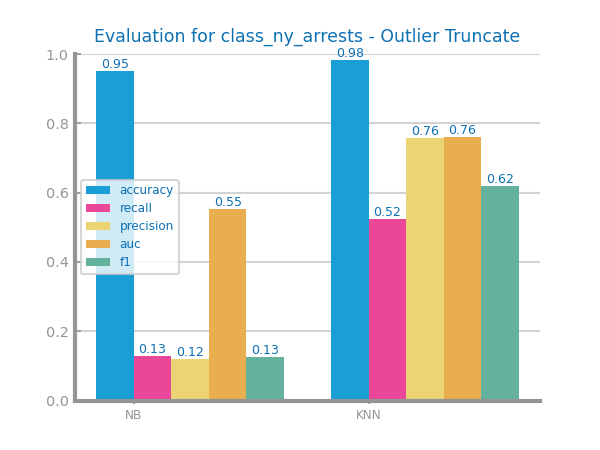
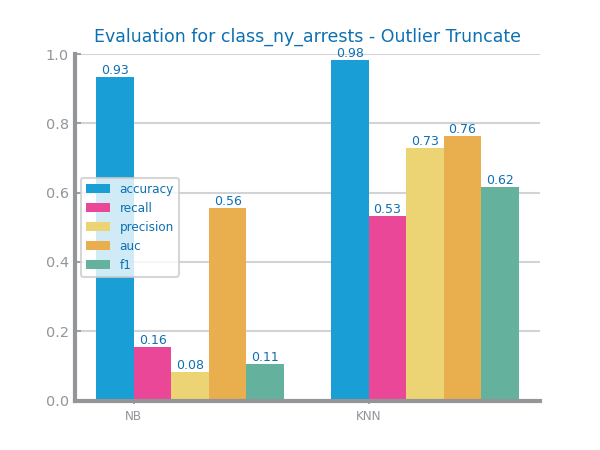
re-run data processing phase + update (only) best approaches for MV and outliers

diff --git a/main.py b/main.py
@@ -22,9 +22,9 @@ print(data_loader1.data.head())
 print(data_loader2.data.head())
 
 # Sample the data of NY Arrests
-print(f"\nSampling 100000 records from the NY Arrests dataset...")
+# print(f"\nSampling 100000 records from the NY Arrests dataset...")
 # data_loader1.data = data_loader1.data.sample(n=100000)
-print(f"Dataset successfully sampled to 100000 records.")
+# print(f"Dataset successfully sampled to 100000 records.")
 
 # %% 1- Data Profiling
 
@@ -97,110 +97,142 @@ data_processing2 = DataProcessing(data_loader2)
 
 # Handle Missing Values
 # techniques1 = data_processing1.handle_missing_values()
-# print(f"\nForm the plots we conclude that the best approach for the Missing Values of the {data_loader1.file_tag} dataset is Missing Value Removal\n")
+# print(f"\nFrom the plots we conclude that the best approach for the Missing Values of the {data_loader1.file_tag} dataset is Missing Value Removal\n")
 # data_processing1.apply_best_missing_value_approach('Remove MV', techniques1)
 
-# # techniques2 = data_processing2.handle_missing_values()
+# techniques2 = data_processing2.handle_missing_values()
 # print(f"\nThe {data_loader2.file_tag} dataset doesnt have missing values\n")
 
 # Save the data
 # data_loader1.data.to_csv("data/class_ny_arrests_MV.csv", index=False)
 # data_loader2.data.to_csv("data/class_financial_distress_MV.csv", index=False)
-data_loader1.data = pd.read_csv("data/class_ny_arrests_MV.csv")
-data_loader2.data = pd.read_csv("data/class_financial_distress_MV.csv")
+
+# Load the data
+# data_loader1.data = pd.read_csv("data/class_ny_arrests_MV.csv")
+# data_loader2.data = pd.read_csv("data/class_financial_distress_MV.csv")
 
 # Data Splitting
 # X1 = data_loader1.data.drop(columns=[data_loader1.target])
 # y1 = data_loader1.data[data_loader1.target]
 # X1_train, X1_test, y1_train, y1_test = train_test_split(X1, y1, test_size=0.3)
 # data_processing1.X_train, data_processing1.y_train, data_processing1.X_test, data_processing1.y_test = X1_train, y1_train, X1_test, y1_test
-#
+
 # X2 = data_loader2.data.drop(columns=[data_loader2.target])
 # y2 = data_loader2.data[data_loader2.target]
 # X2_train, X2_test, y2_train, y2_test = train_test_split(X2, y2, test_size=0.3)
 # data_processing2.X_train, data_processing2.y_train, data_processing2.X_test, data_processing2.y_test = X2_train, y2_train, X2_test, y2_test
 
+# Save the initial split data
+# X1_train.to_csv("data/class_ny_arrests_Xtrain_initial.csv", index=False)
+# X1_test.to_csv("data/class_ny_arrests_Xtest_initial.csv", index=False)
+# y1_train.to_csv("data/class_ny_arrests_ytrain_initial.csv", index=False)
+# y1_test.to_csv("data/class_ny_arrests_ytest_initial.csv", index=False)
+
+# X2_train.to_csv("data/class_financial_distress_Xtrain_initial.csv", index=False)
+# X2_test.to_csv("data/class_financial_distress_Xtest_initial.csv", index=False)
+# y2_train.to_csv("data/class_financial_distress_ytrain_initial.csv", index=False)
+# y2_test.to_csv("data/class_financial_distress_ytest_initial.csv", index=False)
+
+# Load the initial split data
+X1_train = pd.read_csv("data/class_ny_arrests_Xtrain_initial.csv")
+X1_test = pd.read_csv("data/class_ny_arrests_Xtest_initial.csv")
+y1_train = pd.read_csv("data/class_ny_arrests_ytrain_initial.csv")
+y1_test = pd.read_csv("data/class_ny_arrests_ytest_initial.csv")
+data_processing1.X_train = X1_train
+data_processing1.X_test = X1_test
+data_processing1.y_train = y1_train
+data_processing1.y_test = y1_test
+
+X2_train = pd.read_csv("data/class_financial_distress_Xtrain_initial.csv")
+X2_test = pd.read_csv("data/class_financial_distress_Xtest_initial.csv")
+y2_train = pd.read_csv("data/class_financial_distress_ytrain_initial.csv")
+y2_test = pd.read_csv("data/class_financial_distress_ytest_initial.csv")
+data_processing2.X_train = X2_train
+data_processing2.X_test = X2_test
+data_processing2.y_train = y2_train
+data_processing2.y_test = y2_test
+
 # Handle Outliers
-# techniques1, df_train_dropped1, df_train_replaced1, df_train_truncated1 = data_processing1.handle_outliers()
-# print(f"\nForm the plots we conclude that the best approach for the Outliers of the {data_loader1.file_tag} dataset is to truncate them\n")
-# data_processing1.apply_best_outliers_approach('Truncate', techniques1,
-#                                               df_train_truncated1.drop(columns=[data_loader1.target]),
-#                                               df_train_truncated1[data_loader1.target])
-#
-# techniques2, df_train_dropped2, df_train_replaced2, df_train_truncated2 = data_processing2.handle_outliers()
-# print(f"\nForm the plots we conclude that the best approach for the Outliers of the {data_loader2.file_tag} dataset is to truncate them\n")
-# data_processing2.apply_best_outliers_approach('Truncate', techniques2,
-#                                               df_train_truncated2.drop(columns=[data_loader2.target]),
-#                                               df_train_truncated2[data_loader2.target])
+techniques1, df_train_dropped1, df_train_replaced1, df_train_truncated1 = data_processing1.handle_outliers()
+print(f"\nFrom the plots we conclude that the best approach for the Outliers of the {data_loader1.file_tag} dataset is to truncate them\n")
+data_processing1.apply_best_outliers_approach('Truncate', techniques1,
+                                              df_train_truncated1.drop(columns=[data_loader1.target]),
+                                              df_train_truncated1[data_loader1.target])
+
+techniques2, df_train_dropped2, df_train_replaced2, df_train_truncated2 = data_processing2.handle_outliers()
+print(f"\nFrom the plots we conclude that the best approach for the Outliers of the {data_loader2.file_tag} dataset is to truncate them\n")
+data_processing2.apply_best_outliers_approach('Truncate', techniques2,
+                                              df_train_truncated2.drop(columns=[data_loader2.target]),
+                                              df_train_truncated2[data_loader2.target])
 
 # Save the data
-# X1_train, X1_test, y1_train, y1_test = (data_processing1.X_train, data_processing1.X_test,
-#                                         data_processing1.y_train, data_processing1.y_test)
-#
-# X2_train, X2_test, y2_train, y2_test = (data_processing2.X_train, data_processing2.X_test,
-#                                         data_processing2.y_train, data_processing2.y_test)
+X1_train, X1_test, y1_train, y1_test = (data_processing1.X_train, data_processing1.X_test,
+                                        data_processing1.y_train, data_processing1.y_test)
 
-# X1_train.to_csv("data/class_ny_arrests_Xtrain_outliers.csv", index=False)
-# X1_test.to_csv("data/class_ny_arrests_Xtest_outliers.csv", index=False)
-# y1_train.to_csv("data/class_ny_arrests_ytrain_outliers.csv", index=False)
-# y1_test.to_csv("data/class_ny_arrests_ytest_outliers.csv", index=False)
-#
-# X2_train.to_csv("data/class_financial_distress_Xtrain_outliers.csv", index=False)
-# X2_test.to_csv("data/class_financial_distress_Xtest_outliers.csv", index=False)
-# y2_train.to_csv("data/class_financial_distress_ytrain_outliers.csv", index=False)
-# y2_test.to_csv("data/class_financial_distress_ytest_outliers.csv", index=False)
+X2_train, X2_test, y2_train, y2_test = (data_processing2.X_train, data_processing2.X_test,
+                                        data_processing2.y_train, data_processing2.y_test)
+
+X1_train.to_csv("data/class_ny_arrests_Xtrain_outliers.csv", index=False)
+X1_test.to_csv("data/class_ny_arrests_Xtest_outliers.csv", index=False)
+y1_train.to_csv("data/class_ny_arrests_ytrain_outliers.csv", index=False)
+y1_test.to_csv("data/class_ny_arrests_ytest_outliers.csv", index=False)
+
+X2_train.to_csv("data/class_financial_distress_Xtrain_outliers.csv", index=False)
+X2_test.to_csv("data/class_financial_distress_Xtest_outliers.csv", index=False)
+y2_train.to_csv("data/class_financial_distress_ytrain_outliers.csv", index=False)
+y2_test.to_csv("data/class_financial_distress_ytest_outliers.csv", index=False)
 
 # Handle Scaling
-# techniques1, df_zscore_train1, df_zscore_test1, df_minmax_train1, df_minmax_test1 = data_processing1.handle_scaling()
-# print(f"\nForm the plots we conclude that the best approach for the Scaling of the {data_loader1.file_tag} dataset is Standard\n")
-# data_processing1.apply_best_scaling_approach('Standard', techniques1,
-#                                              df_zscore_train1.drop(columns=[data_loader1.target]), df_zscore_train1[data_loader1.target],
-#                                              df_zscore_test1.drop(columns=[data_loader1.target]), df_zscore_test1[data_loader1.target])
-#
-# techniques2, df_zscore_train2, df_zscore_test2, df_minmax_train2, df_minmax_test2 = data_processing2.handle_scaling()
-# print(f"\nForm the plots we conclude that the best approach for the Scaling of the {data_loader2.file_tag} dataset is Standard\n")
-# data_processing2.apply_best_scaling_approach('Standard', techniques2,
-#                                              df_zscore_train2.drop(columns=[data_loader2.target]), df_zscore_train2[data_loader2.target],
-#                                              df_zscore_test2.drop(columns=[data_loader2.target]), df_zscore_test2[data_loader2.target])
+techniques1, df_zscore_train1, df_zscore_test1, df_minmax_train1, df_minmax_test1 = data_processing1.handle_scaling()
+print(f"\nFrom the plots we conclude that the best approach for the Scaling of the {data_loader1.file_tag} dataset is Standard\n")
+data_processing1.apply_best_scaling_approach('Standard', techniques1,
+                                             df_zscore_train1.drop(columns=[data_loader1.target]), df_zscore_train1[data_loader1.target],
+                                             df_zscore_test1.drop(columns=[data_loader1.target]), df_zscore_test1[data_loader1.target])
+
+techniques2, df_zscore_train2, df_zscore_test2, df_minmax_train2, df_minmax_test2 = data_processing2.handle_scaling()
+print(f"\nFrom the plots we conclude that the best approach for the Scaling of the {data_loader2.file_tag} dataset is Standard\n")
+data_processing2.apply_best_scaling_approach('Standard', techniques2,
+                                             df_zscore_train2.drop(columns=[data_loader2.target]), df_zscore_train2[data_loader2.target],
+                                             df_zscore_test2.drop(columns=[data_loader2.target]), df_zscore_test2[data_loader2.target])
 
 # Save the data
-# X1_train, X1_test, y1_train, y1_test = (data_processing1.X_train, data_processing1.X_test,
-#                                         data_processing1.y_train, data_processing1.y_test)
-#
-# X2_train, X2_test, y2_train, y2_test = (data_processing2.X_train, data_processing2.X_test,
-#                                         data_processing2.y_train, data_processing2.y_test)
+X1_train, X1_test, y1_train, y1_test = (data_processing1.X_train, data_processing1.X_test,
+                                        data_processing1.y_train, data_processing1.y_test)
 
-# X1_train.to_csv("data/class_ny_arrests_Xtrain_scaling.csv", index=False)
-# X1_test.to_csv("data/class_ny_arrests_Xtest_scaling.csv", index=False)
-# y1_train.to_csv("data/class_ny_arrests_ytrain_scaling.csv", index=False)
-# y1_test.to_csv("data/class_ny_arrests_ytest_scaling.csv", index=False)
-#
-# X2_train.to_csv("data/class_financial_distress_Xtrain_scaling.csv", index=False)
-# X2_test.to_csv("data/class_financial_distress_Xtest_scaling.csv", index=False)
-# y2_train.to_csv("data/class_financial_distress_ytrain_scaling.csv", index=False)
-# y2_test.to_csv("data/class_financial_distress_ytest_scaling.csv", index=False)
+X2_train, X2_test, y2_train, y2_test = (data_processing2.X_train, data_processing2.X_test,
+                                        data_processing2.y_train, data_processing2.y_test)
+
+X1_train.to_csv("data/class_ny_arrests_Xtrain_scaling.csv", index=False)
+X1_test.to_csv("data/class_ny_arrests_Xtest_scaling.csv", index=False)
+y1_train.to_csv("data/class_ny_arrests_ytrain_scaling.csv", index=False)
+y1_test.to_csv("data/class_ny_arrests_ytest_scaling.csv", index=False)
+
+X2_train.to_csv("data/class_financial_distress_Xtrain_scaling.csv", index=False)
+X2_test.to_csv("data/class_financial_distress_Xtest_scaling.csv", index=False)
+y2_train.to_csv("data/class_financial_distress_ytrain_scaling.csv", index=False)
+y2_test.to_csv("data/class_financial_distress_ytest_scaling.csv", index=False)
 
 # Handle Balancing
-# techniques1, df_under_X1, df_under_y1, df_over_X1, df_over_y1, smote_X1, smote_y1 = data_processing1.handle_balancing()
-# print(f"\nFrom the plots we conclude that the best approach for the Balancing of the {data_loader1.file_tag} dataset is Oversampling\n")
-# data_processing1.apply_best_balancing_approach('Oversampling', techniques1, df_over_X1, df_over_y1)
-#
-# techniques2, df_under_X2, df_under_y2, df_over_X2, df_over_y2, smote_X2, smote_y2 = data_processing2.handle_balancing()
-# print(f"\nFrom the plots we conclude that the best approach for the Balancing of the {data_loader2.file_tag} dataset is Under Sampling\n")
-# data_processing2.apply_best_balancing_approach('SMOTE', techniques2, smote_X2, smote_y2)
+techniques1, df_under_X1, df_under_y1, df_over_X1, df_over_y1, smote_X1, smote_y1 = data_processing1.handle_balancing()
+print(f"\nFrom the plots we conclude that the best approach for the Balancing of the {data_loader1.file_tag} dataset is Oversampling\n")
+data_processing1.apply_best_balancing_approach('Oversampling', techniques1, df_over_X1, df_over_y1)
+
+techniques2, df_under_X2, df_under_y2, df_over_X2, df_over_y2, smote_X2, smote_y2 = data_processing2.handle_balancing()
+print(f"\nFrom the plots we conclude that the best approach for the Balancing of the {data_loader2.file_tag} dataset is SMOTE\n")
+data_processing2.apply_best_balancing_approach('SMOTE', techniques2, smote_X2, smote_y2)
 
 # Save the data
-# X1_train, X1_test, y1_train, y1_test = (data_processing1.X_train, data_processing1.X_test,
-#                                         data_processing1.y_train, data_processing1.y_test)
-#
-# X2_train, X2_test, y2_train, y2_test = (data_processing2.X_train, data_processing2.X_test,
-#                                         data_processing2.y_train, data_processing2.y_test)
-#
-# X1_train.to_csv("data/class_ny_arrests_Xtrain_balancing.csv", index=False)
-# y1_train.to_csv("data/class_ny_arrests_ytrain_balancing.csv", index=False)
-#
-# X2_train.to_csv("data/class_financial_distress_Xtrain_balancing.csv", index=False)
-# y2_train.to_csv("data/class_financial_distress_ytrain_balancing.csv", index=False)
+X1_train, X1_test, y1_train, y1_test = (data_processing1.X_train, data_processing1.X_test,
+                                        data_processing1.y_train, data_processing1.y_test)
+
+X2_train, X2_test, y2_train, y2_test = (data_processing2.X_train, data_processing2.X_test,
+                                        data_processing2.y_train, data_processing2.y_test)
+
+X1_train.to_csv("data/class_ny_arrests_Xtrain_balancing.csv", index=False)
+y1_train.to_csv("data/class_ny_arrests_ytrain_balancing.csv", index=False)
+
+X2_train.to_csv("data/class_financial_distress_Xtrain_balancing.csv", index=False)
+y2_train.to_csv("data/class_financial_distress_ytrain_balancing.csv", index=False)
 
 # Handle Feature Selection
 # data_processing1.handle_feature_selection()

diff --git a/classes/DataModeling.py b/classes/DataModeling.py
@@ -309,7 +309,7 @@ class DataModeling:
         show()
 
         # Variables Importance
-        tree_filename: str = f"graphs/data_modeling/dt/{self.data_loader.file_tag}_dt_{params["metric"]}_best_tree"
+        tree_filename: str = f'graphs/data_modeling/dt/{self.data_loader.file_tag}_dt_{params["metric"]}_best_tree'
         max_depth2show = 3
         st_labels: list[str] = [str(value) for value in labels]
 
@@ -344,7 +344,7 @@ class DataModeling:
             ylabel="variables",
             percentage=True,
         )
-        savefig(f"graphs/data_modeling/dt/{self.data_loader.file_tag}_dt_{params["metric"]}_vars_ranking.png")
+        savefig(f'graphs/data_modeling/dt/{self.data_loader.file_tag}_dt_{params["metric"]}_vars_ranking.png')
 
         # Overfitting Study
         crit: Literal["entropy", "gini"] = params["params"][0]
@@ -370,7 +370,7 @@ class DataModeling:
             ylabel=str(params["metric"]),
             percentage=True,
         )
-        savefig(f"graphs/data_modeling/dt/{self.data_loader.file_tag}_dt_{params["metric"]}_overfitting.png")
+        savefig(f'graphs/data_modeling/dt/{self.data_loader.file_tag}_dt_{params["metric"]}_overfitting.png')
         show()
 
         return evaluation_results
